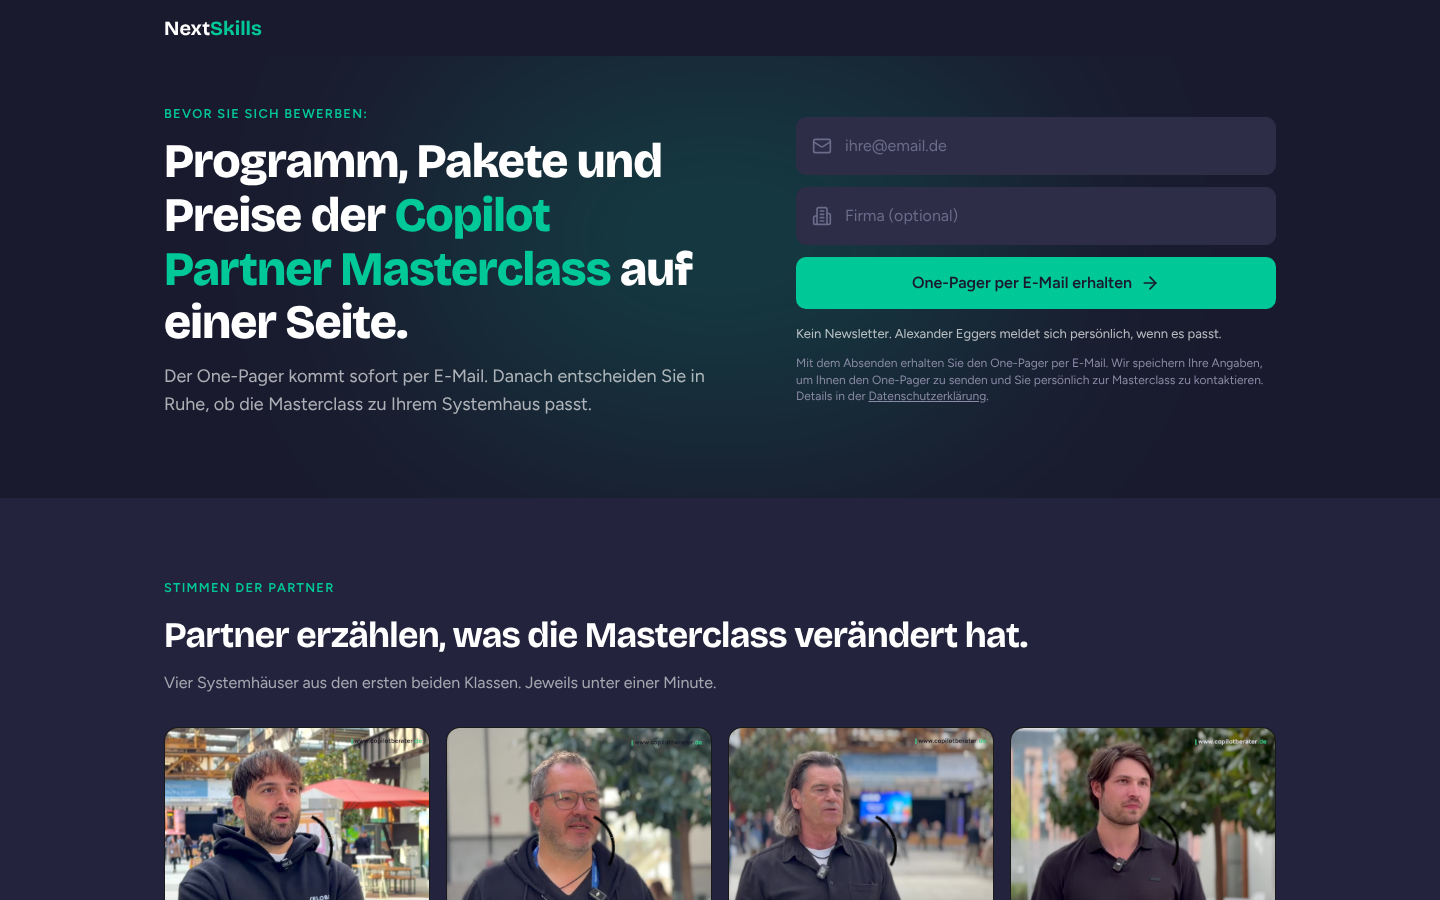
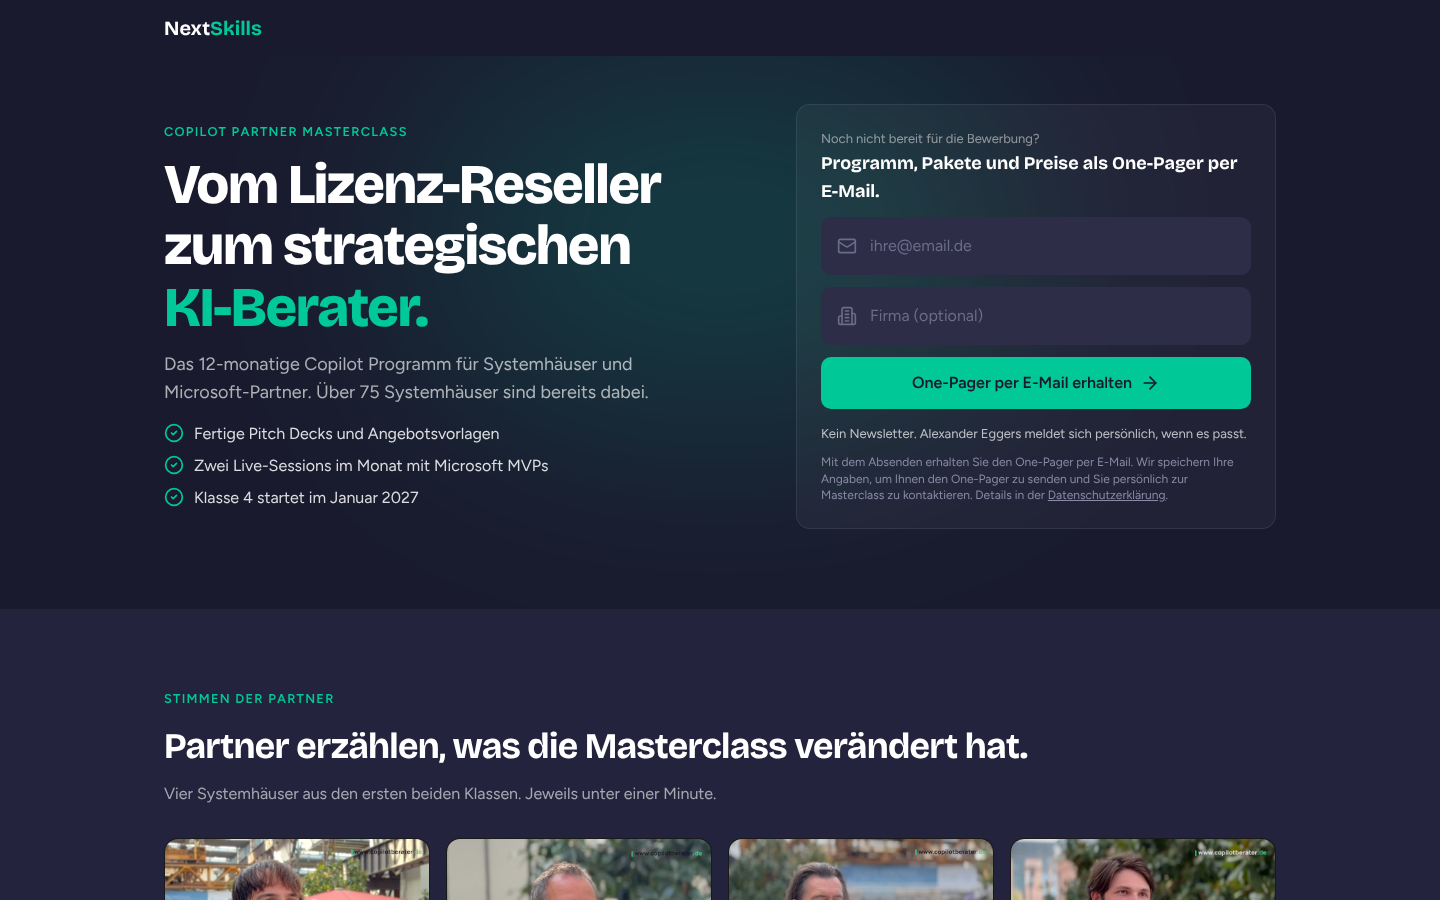
LinkedIn-Landingpage: Hero erklärt zuerst das Angebot (#194)
Kalter Traffic hat im ersten Bildschirm nicht verstanden, worum es geht:
Die Überschrift handelte vom One-Pager, nicht von der Masterclass.

- Hero mit Kernaussage der Startseite ("Vom Lizenz-Reseller zum
  strategischen KI-Berater."), Programm in einem Satz, drei Häkchen
- One-Pager-Angebot direkt über dem Formular, mit kleinem Bezug zum
  Post ("Noch nicht bereit für die Bewerbung?")
- Eigener Fakten-Block entfällt, die Fakten stehen jetzt im Hero
- Screenshots aktualisiert

Claude-Session: https://claude.ai/code/session_01KjWz2zSiyGJrSKAx8ae96R

diff --git a/app/linkedin/LinkedInLanding.tsx b/app/linkedin/LinkedInLanding.tsx
@@ -22,9 +22,10 @@ type FormState =
 interface Props {
   klasseName: string;
   startMonat: string;
+  partnerCount: string;
 }
 
-export default function LinkedInLanding({ klasseName, startMonat }: Props) {
+export default function LinkedInLanding({ klasseName, startMonat, partnerCount }: Props) {
   const [email, setEmail] = useState("");
   const [firma, setFirma] = useState("");
   const [formState, setFormState] = useState<FormState>({ status: "idle" });
@@ -212,10 +213,11 @@ export default function LinkedInLanding({ klasseName, startMonat }: Props) {
     );
   };
 
-  const fakten = [
-    { titel: "12 Monate Begleitung", text: "Zwei Live-Sessions pro Monat mit Microsoft MVPs" },
-    { titel: "Fertige Vertriebsunterlagen", text: "Pitch Decks, Angebotsvorlagen, Einwandbehandlung" },
-    { titel: `${klasseName} startet im ${startMonat}`, text: "Online in Microsoft Teams" },
+  // Kerninhalte aus der Startseite, damit kalter Traffic sofort sieht, worum es geht.
+  const haekchen = [
+    "Fertige Pitch Decks und Angebotsvorlagen",
+    "Zwei Live-Sessions im Monat mit Microsoft MVPs",
+    `${klasseName} startet im ${startMonat}`,
   ];
 
   return (
@@ -230,20 +232,40 @@ export default function LinkedInLanding({ klasseName, startMonat }: Props) {
       {/* ═══ HERO MIT FORMULAR ═══ */}
       <section className="relative overflow-hidden">
         <div className="absolute top-0 left-1/2 -translate-x-1/2 w-[600px] h-[360px] rounded-full blur-[120px] opacity-20 pointer-events-none" style={{ background: "#00C896" }} />
-        <div className="relative container-main pt-4 pb-14 md:pt-12 md:pb-20 grid md:grid-cols-[1.1fr_1fr] gap-6 md:gap-14 items-center">
+        <div className="relative container-main pt-3 pb-14 md:pt-12 md:pb-20 grid md:grid-cols-[1.1fr_1fr] gap-5 md:gap-14 items-center">
           <div>
-            <span className="section-label">Bevor Sie sich bewerben:</span>
+            <span className="section-label">Copilot Partner Masterclass</span>
             <h1
-              className="text-white font-extrabold leading-[1.12] mt-2 mb-3"
-              style={{ ...HEADING_FONT, fontSize: "clamp(25px, 4vw, 48px)", letterSpacing: "-0.02em" }}
+              className="text-white font-extrabold leading-[1.1] mt-2 mb-3"
+              style={{ ...HEADING_FONT, fontSize: "clamp(28px, 4.6vw, 56px)", letterSpacing: "-0.025em" }}
             >
-              Programm, Pakete und Preise der <span className="text-[#00C896]">Copilot Partner Masterclass</span> auf einer Seite.
+              Vom Lizenz-Reseller zum strategischen <span className="text-[#00C896] whitespace-nowrap">KI-Berater.</span>
             </h1>
-            <p className="text-white/65 text-[15px] md:text-lg leading-relaxed">
-              Der One-Pager kommt sofort per E-Mail. Danach entscheiden Sie in Ruhe, ob die Masterclass zu Ihrem Systemhaus passt.
+            <p className="text-white/65 text-[15px] md:text-lg leading-relaxed mb-4">
+              Das 12-monatige Copilot Programm für Systemhäuser und Microsoft-Partner. Über {partnerCount.replace("+", "")} Systemhäuser sind bereits dabei.
             </p>
+            <ul className="space-y-2">
+              {haekchen.map((h) => (
+                <li key={h} className="flex items-start gap-2.5 text-white/85 text-[14px] md:text-base leading-snug">
+                  <CheckCircle2 className="w-5 h-5 text-[#00C896] flex-shrink-0 mt-px" />
+                  {h}
+                </li>
+              ))}
+            </ul>
           </div>
-          <div id="onepager" ref={heroFormRef} className="w-full max-w-[480px] md:justify-self-end">
+          <div
+            id="onepager"
+            ref={heroFormRef}
+            className="w-full max-w-[480px] md:justify-self-end md:rounded-[14px] md:p-6 md:border md:border-white/[0.08] md:bg-white/[0.04]"
+          >
+            {formState.status !== "success" && (
+              <div className="mb-3">
+                <p className="text-white/50 text-[13px]">Noch nicht bereit für die Bewerbung?</p>
+                <p className="text-white font-bold text-[17px] md:text-lg leading-snug" style={HEADING_FONT}>
+                  Programm, Pakete und Preise als <span className="whitespace-nowrap">One-Pager</span> per E-Mail.
+                </p>
+              </div>
+            )}
             {renderForm("hero")}
           </div>
         </div>
@@ -318,20 +340,6 @@ export default function LinkedInLanding({ klasseName, startMonat }: Props) {
               </figure>
             ))}
           </div>
-        </div>
-      </section>
-
-      {/* ═══ DREI FAKTEN ═══ */}
-      <section className="py-12 md:py-16">
-        <div className="container-main">
-          <dl className="grid sm:grid-cols-3 gap-3">
-            {fakten.map((f) => (
-              <div key={f.titel} className="rounded-[12px] px-5 py-4 border border-white/[0.08]" style={{ background: "rgba(255,255,255,.04)" }}>
-                <dt className="text-white font-bold text-lg leading-snug" style={HEADING_FONT}>{f.titel}</dt>
-                <dd className="text-white/55 text-sm mt-1">{f.text}</dd>
-              </div>
-            ))}
-          </dl>
         </div>
       </section>
 

diff --git a/app/linkedin/page.tsx b/app/linkedin/page.tsx
@@ -2,6 +2,7 @@ import type { Metadata, Viewport } from "next";
 import LinkedInLanding from "./LinkedInLanding";
 import { getLandingKlassenRows } from "@/lib/klassen";
 import { buildLandingKlassen } from "@/lib/landing/klassen";
+import { PARTNER_COUNT } from "@/lib/landing/inhalte";
 
 // Landingpage nur für den LinkedIn-Boost (Kurzlink /li). Kleiner erster
 // Schritt statt Bewerbung: E-Mail eintragen, One-Pager kommt per Mail.
@@ -24,5 +25,5 @@ export const metadata: Metadata = {
 export default async function Page() {
   const rows = await getLandingKlassenRows();
   const { offen } = buildLandingKlassen(rows ?? [], new Date());
-  return <LinkedInLanding klasseName={offen.name} startMonat={offen.startMonat} />;
+  return <LinkedInLanding klasseName={offen.name} startMonat={offen.startMonat} partnerCount={PARTNER_COUNT} />;
 }
